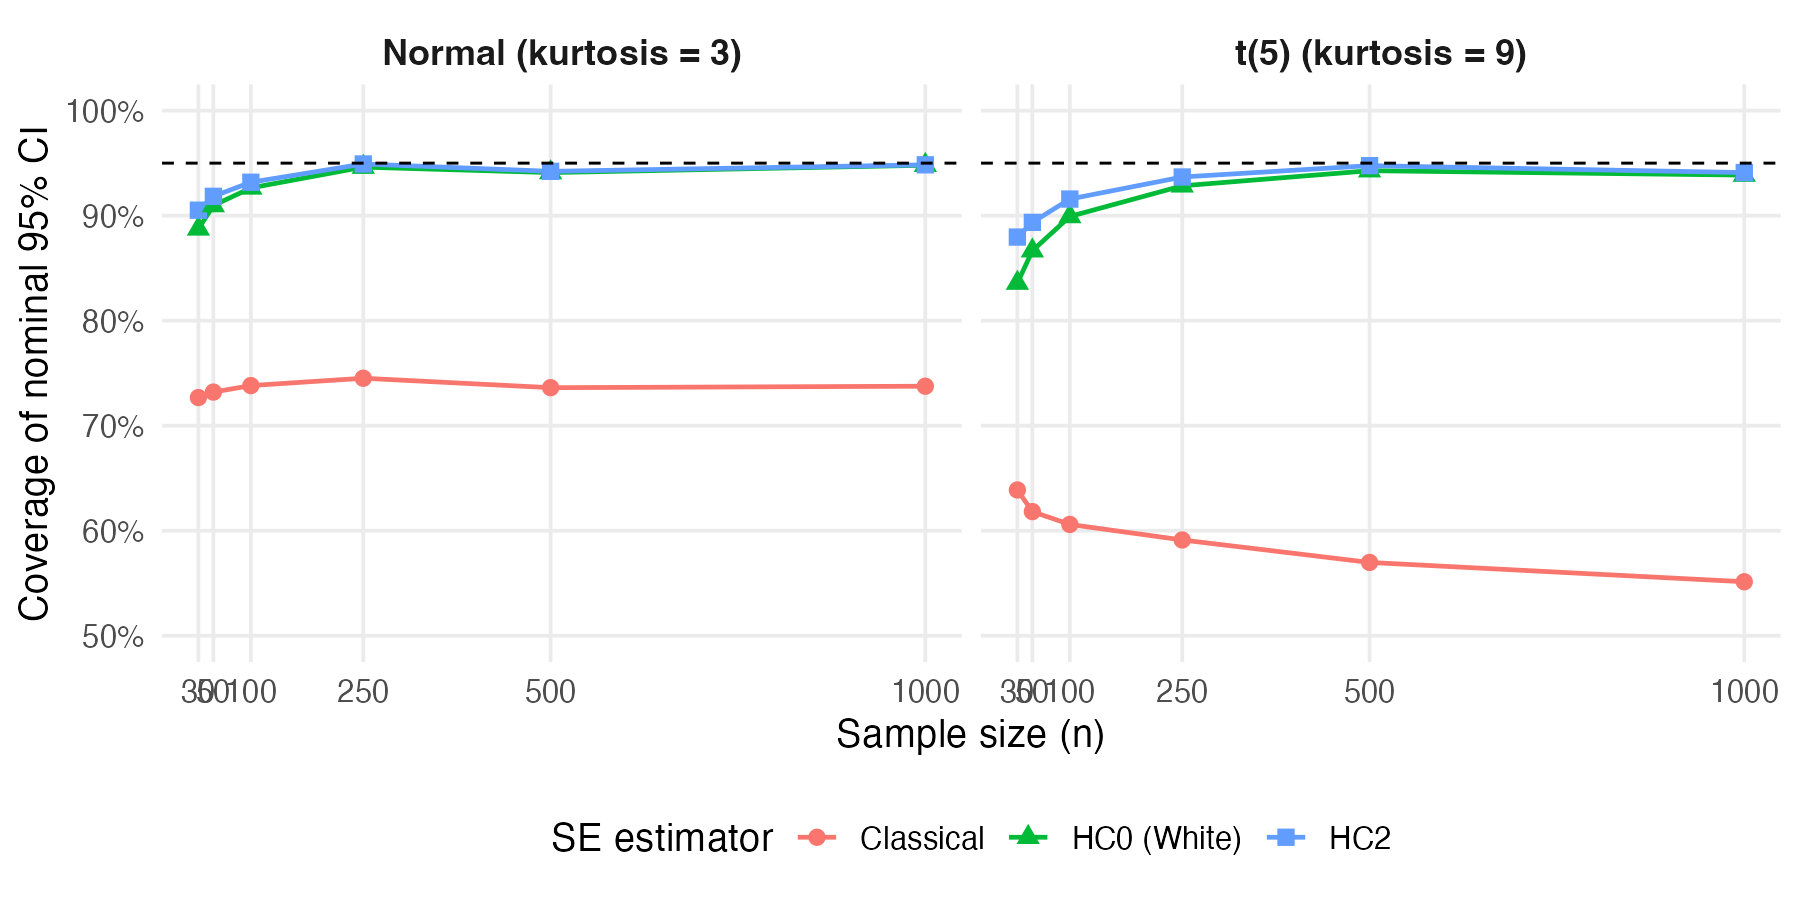
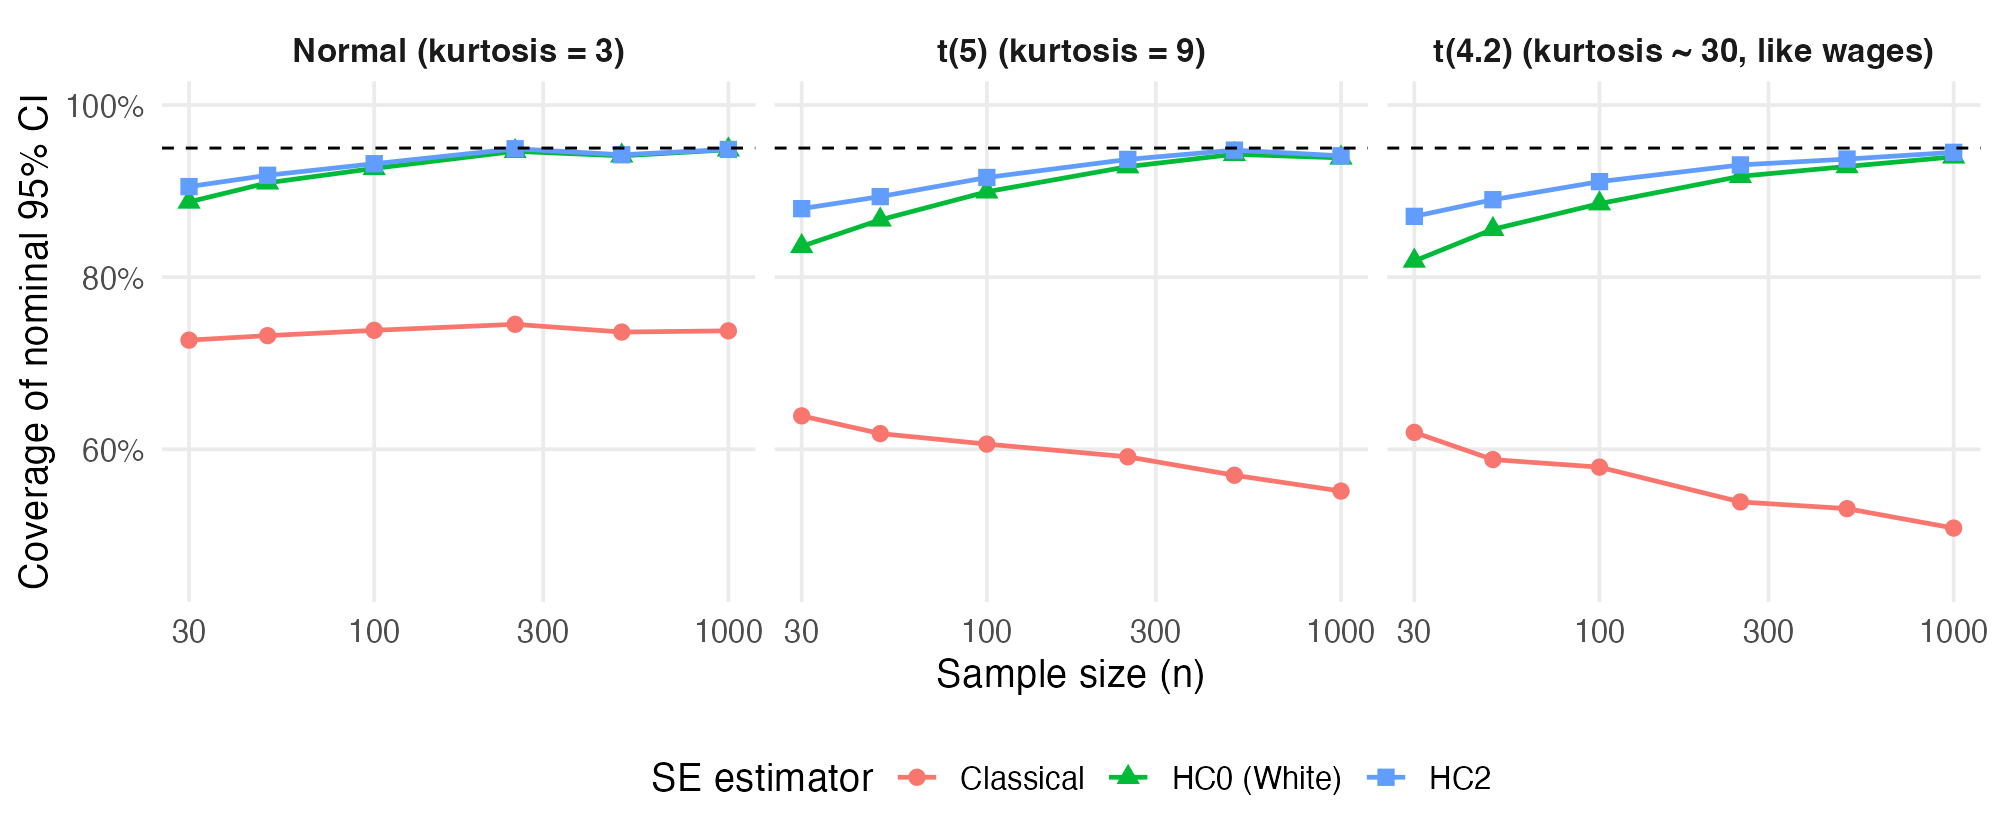
Add kurtosis~30 panel to coverage sim, fix x-axis scaling in Lecture 6
- Add t(4.2) distribution (kurtosis ≈ 30, matching Hansen's CPS wage
  example) as third simulation panel — shows HC0 stuck below 80% even
  at n=1000, while HC2 still converges
- Switch x-axis to log scale to eliminate label crowding
- Update "Lessons" slide text to reference the kurtosis-30 results

diff --git a/Slides2026/w3Day6_Heteroskedasticity/ILMLecture6_handout.tex b/Slides2026/w3Day6_Heteroskedasticity/ILMLecture6_handout.tex
@@ -204,12 +204,12 @@ Nominal 95\% CI coverage, varying $n$ and regressor kurtosis:
 
 \begin{frame}{Lessons from the Simulation}
 \begin{itemize}
-\item \textbf{Classical SEs} dramatically under-cover ($\sim$70--60\%) and \emph{get worse} with heavier tails---more data does not help because the variance formula is wrong, not just imprecise.\pause
-\item \textbf{HC0 (White)} improves with $n$ but is noticeably below 95\% at small $n$, especially with heavy-tailed regressors.\pause
-\item \textbf{HC2} reaches nominal coverage faster by correcting the finite-sample bias in $\hat{e}_i^2$.\pause
+\item \textbf{Classical SEs} dramatically under-cover and \emph{get worse} with heavier tails---more data does not help because the variance formula is wrong, not just imprecise.\pause
+\item \textbf{HC0 (White)} improves with $n$ under mild kurtosis, but with kurtosis $\approx 30$ it is still below 80\% coverage even at $n=1{,}000$.\pause
+\item \textbf{HC2} reaches nominal coverage much faster by correcting the finite-sample bias in $\hat{e}_i^2$.\pause
 \end{itemize}
 \begin{tcolorbox}[colback=blue!5, colframe=blue!50]
-\textbf{Takeaway:} Always use heteroskedasticity-robust SEs---but the version matters.  HC2 (or HC3) should be the default, especially with $n < 200$ or heavy-tailed regressors.
+\textbf{Takeaway:} Always use heteroskedasticity-robust SEs---but the version matters.  HC2 (or HC3) should be the default, especially with heavy-tailed regressors or $n < 200$.
 \end{tcolorbox}
 \end{frame}
 
